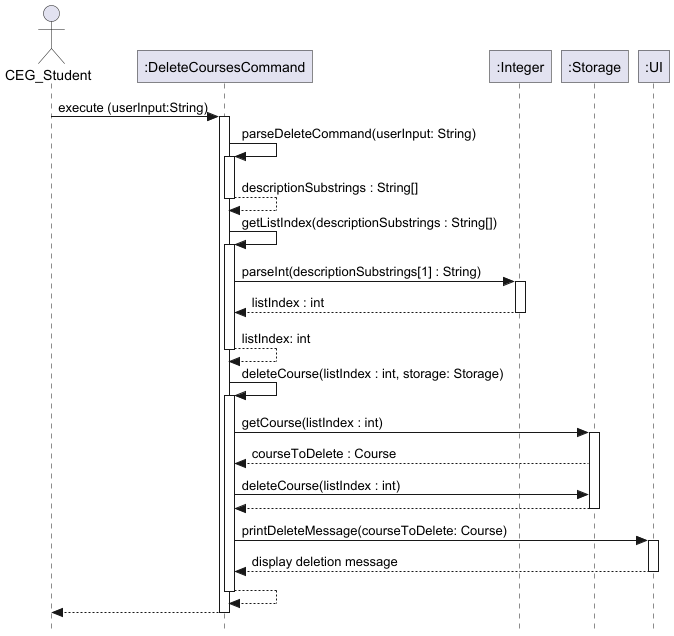
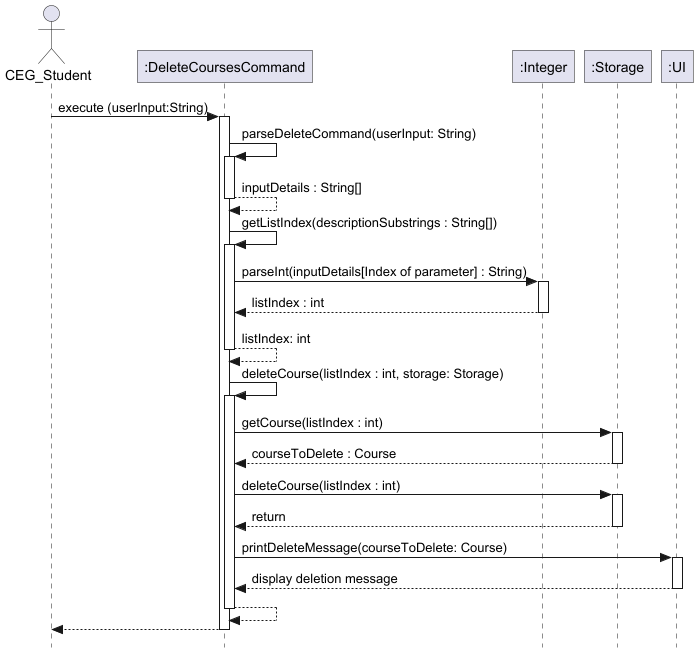
Fix documentation bugs in sequence diagrams

diff --git a/src/main/java/seedu/exchangecoursemapper/command/DeleteCoursesCommand.java b/src/main/java/seedu/exchangecoursemapper/command/DeleteCoursesCommand.java
@@ -51,9 +51,9 @@ public class DeleteCoursesCommand extends PersonalTrackerCommand {
                 return;
             }
             logger.log(Level.INFO, Logs.PARSE_ADD_COMMANDS);
-            String[] descriptionSubstrings = parseDeleteCommand(userInput);
-            assert descriptionSubstrings.length == DELETE_COURSES_MAX_ARGS : Assertions.MISSING_FIELDS;
-            int listIndex = getListIndex(descriptionSubstrings);
+            String[] inputDetails = parseDeleteCommand(userInput);
+            assert inputDetails.length == DELETE_COURSES_MAX_ARGS : Assertions.MISSING_FIELDS;
+            int listIndex = getListIndex(inputDetails);
             deleteCourse(listIndex, storage);
         } catch (IllegalArgumentException e) {
             logger.log(Level.WARNING, e.getMessage());
@@ -70,31 +70,31 @@ public class DeleteCoursesCommand extends PersonalTrackerCommand {
     public String[] parseDeleteCommand(String userInput) {
         String input = userInput.trim().replaceAll(REPEATED_SPACES, SPACE);
         assert !input.isEmpty() : Assertions.NULL_INPUT;
-        String[] descriptionSubstrings = input.split(SPACE);
-        if (descriptionSubstrings.length < DELETE_COURSES_MAX_ARGS ||
-                descriptionSubstrings[DELETE_COMMAND_PARAMETER_INDEX].trim().isEmpty()) {
+        String[] inputDetails = input.split(SPACE);
+        if (inputDetails.length < DELETE_COURSES_MAX_ARGS ||
+                inputDetails[DELETE_COMMAND_PARAMETER_INDEX].trim().isEmpty()) {
             throw new IllegalArgumentException(Exception.noInputAfterDelete());
         }
-        if (descriptionSubstrings.length > DELETE_COURSES_MAX_ARGS) {
+        if (inputDetails.length > DELETE_COURSES_MAX_ARGS) {
             throw new IllegalArgumentException(Exception.deleteCoursesLimitExceeded());
         }
         logger.log(Level.INFO, Logs.RETURN_PARSED_DELETE_COMMAND);
-        return descriptionSubstrings;
+        return inputDetails;
     }
 
     /**
      * Returns the index of the course to be deleted.
      *
-     * @param descriptionSubstrings a String[] containing the extracted information: list index of the course
+     * @param inputDetails a String[] containing the extracted information: list index of the course
      *                              mapping to be deleted.
      * @return an integer that represents the list index of the course to be deleted.
      */
-    public int getListIndex(String[] descriptionSubstrings) {
+    public int getListIndex(String[] inputDetails) {
         try {
-            assert descriptionSubstrings.length == DELETE_COURSES_MAX_ARGS |
-                    descriptionSubstrings[DELETE_COMMAND_PARAMETER_INDEX].trim().isEmpty() : Assertions.MISSING_FIELDS;
+            assert inputDetails.length == DELETE_COURSES_MAX_ARGS |
+                    inputDetails[DELETE_COMMAND_PARAMETER_INDEX].trim().isEmpty() : Assertions.MISSING_FIELDS;
             logger.log(Level.INFO, Logs.GET_INDEX_OF_COURSE_TO_DELETE);
-            return Integer.parseInt(descriptionSubstrings[DELETE_COMMAND_PARAMETER_INDEX]);
+            return Integer.parseInt(inputDetails[DELETE_COMMAND_PARAMETER_INDEX]);
         } catch (NumberFormatException e) {
             throw new IllegalArgumentException(Exception.nonNumericListIndexInput());
         }
